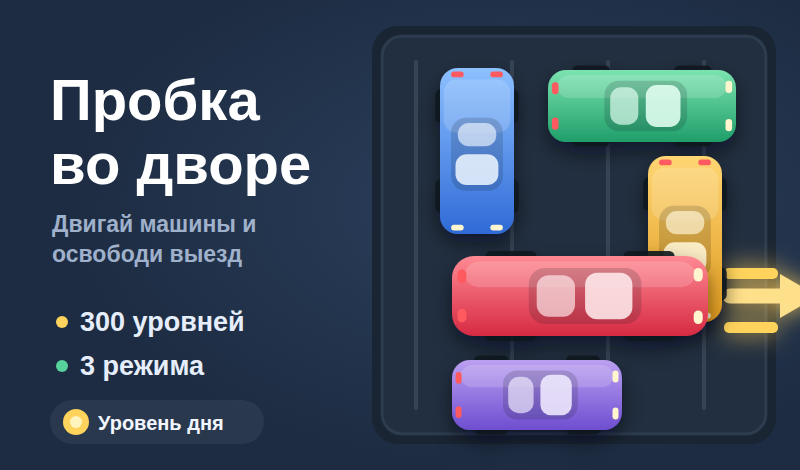
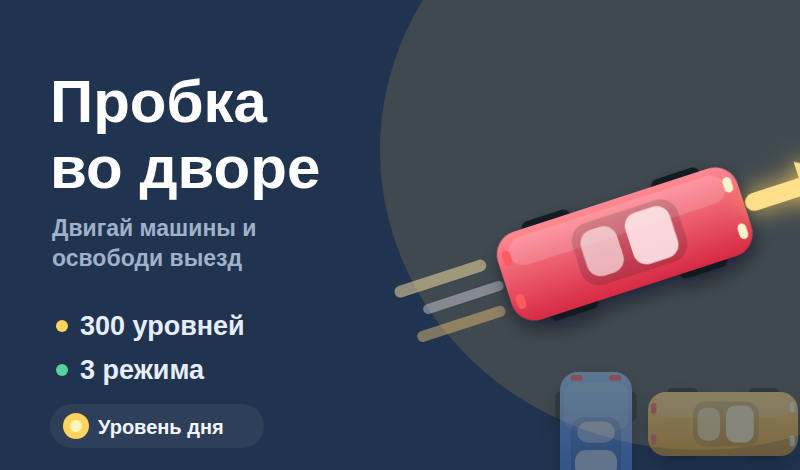
Новый концепт иконки и обложки с нуля: «Побег героя»
Полностью новая идея (не правка старого затора): одна крупная глянцевая
красная машина в динамике вырывается по диагонали к светящемуся золотому
выезду со скоростными штрихами; тусклые машины-блокеры по краям, тёплое
сияние и виньетка. Энергично, читаемо на малых размерах.
- icon-512.png — квадрат 512x512, без скруглений/прозрачности (8.3.3).
- cover-800x470.png — иллюстрация (заголовок + сцена побега), не скриншот (5.6).

diff --git a/releases/yandex-assets/cover-800x470.html b/releases/yandex-assets/cover-800x470.html
@@ -11,54 +11,47 @@
 <body>
     <svg width="800" height="470" viewBox="0 0 800 470" xmlns="http://www.w3.org/2000/svg">
       <defs>
-        <linearGradient id="coverBg" x1="0" y1="0" x2="800" y2="470">
-          <stop stop-color="#1d2c42"/>
-          <stop offset="0.55" stop-color="#0c1420"/>
+        <linearGradient id="coverBg2" x1="0" y1="0" x2="800" y2="470">
+          <stop stop-color="#21344f"/>
+          <stop offset="0.55" stop-color="#0e1828"/>
           <stop offset="1" stop-color="#070a10"/>
         </linearGradient>
-        <linearGradient id="title" x1="44" y1="60" x2="360" y2="180">
+        <linearGradient id="title" x1="44" y1="60" x2="360" y2="190">
           <stop stop-color="#ffffff"/>
           <stop offset="1" stop-color="#a9caff"/>
         </linearGradient>
-        <radialGradient id="yardGlow" cx="64%" cy="44%" r="56%">
-          <stop offset="0" stop-color="#5a7bb0" stop-opacity="0.24"/>
-          <stop offset="1" stop-color="#5a7bb0" stop-opacity="0"/>
-        </radialGradient>
         <linearGradient id="car-red" x1="0" y1="0" x2="0" y2="1"><stop stop-color="#ff8a93"/><stop offset="1" stop-color="#d62a43"/></linearGradient><linearGradient id="car-blue" x1="0" y1="0" x2="0" y2="1"><stop stop-color="#8cc0ff"/><stop offset="1" stop-color="#2f6ad6"/></linearGradient><linearGradient id="car-green" x1="0" y1="0" x2="0" y2="1"><stop stop-color="#7ce3b0"/><stop offset="1" stop-color="#1f9e6a"/></linearGradient><linearGradient id="car-gold" x1="0" y1="0" x2="0" y2="1"><stop stop-color="#ffd673"/><stop offset="1" stop-color="#df991e"/></linearGradient><linearGradient id="car-purple" x1="0" y1="0" x2="0" y2="1"><stop stop-color="#bba0f2"/><stop offset="1" stop-color="#6e4ed0"/></linearGradient><linearGradient id="car-teal" x1="0" y1="0" x2="0" y2="1"><stop stop-color="#74e2e8"/><stop offset="1" stop-color="#1f9aa6"/></linearGradient><filter id="carShadow" x="-50%" y="-50%" width="200%" height="200%"><feDropShadow dx="0" dy="9" stdDeviation="9" flood-color="#04060c" flood-opacity="0.5"/></filter><filter id="exitGlow" x="-120%" y="-120%" width="340%" height="340%"><feDropShadow dx="0" dy="0" stdDeviation="12" flood-color="#ffce5a" flood-opacity="0.9"/></filter>
       </defs>
-      <rect width="800" height="470" fill="url(#coverBg)"/>
-      <rect width="800" height="470" fill="url(#yardGlow)"/>
-      <!-- площадка двора: асфальт с разметкой парковочных мест -->
-      <g transform="translate(372 26)">
-        <rect x="0" y="0" width="404" height="418" rx="26" fill="#1a2533"/>
-        <rect x="10" y="10" width="384" height="398" rx="20" fill="#222f40"/>
-        <g stroke="#cfd9e8" stroke-width="4" opacity="0.12" stroke-linecap="round">
-          <path d="M44 36v346M140 36v346M236 36v346M332 36v346"/>
+      <rect width="800" height="470" fill="url(#coverBg2)"/>
+      <ellipse cx="700" cy="150" rx="320" ry="300" fill="#ffce5a" opacity="0.14"/>
+      <!-- тусклый затор -->
+      <g opacity="0.38">
+        <g filter="url(#carShadow)"><rect x="555.4" y="391.5" width="11.5" height="30" rx="5.2" fill="#10151d" opacity="0.9"/><rect x="555.4" y="472.5" width="11.5" height="30" rx="5.2" fill="#10151d" opacity="0.9"/><rect x="625.1" y="391.5" width="11.5" height="30" rx="5.2" fill="#10151d" opacity="0.9"/><rect x="625.1" y="472.5" width="11.5" height="30" rx="5.2" fill="#10151d" opacity="0.9"/><rect x="560" y="372" width="72" height="150" rx="18" fill="url(#car-blue)"/><rect x="563.6" y="382.5" width="64.8" height="48" rx="12.6" fill="#ffffff" opacity="0.16"/><rect x="570.8" y="417" width="50.4" height="66" rx="14.4" fill="#0b1016" opacity="0.16"/><rect x="575.1" y="450" width="41.8" height="27.7" rx="10.8" fill="#dfe9f6" opacity="0.88"/><rect x="577.3" y="421.6" width="37.4" height="21.1" rx="10.8" fill="#dfe9f6" opacity="0.68"/><rect x="570.8" y="513.6" width="12.2" height="5.3" rx="2.6" fill="#fff6cf"/><rect x="609" y="513.6" width="12.2" height="5.3" rx="2.6" fill="#fff6cf"/><rect x="570.8" y="375.1" width="12.2" height="5.3" rx="2.6" fill="#ff5a5f"/><rect x="609" y="375.1" width="12.2" height="5.3" rx="2.6" fill="#ff5a5f"/></g>
+        <g filter="url(#carShadow)"><rect x="667.5" y="387.9" width="30" height="10.2" rx="4.6" fill="#10151d" opacity="0.9"/><rect x="748.5" y="387.9" width="30" height="10.2" rx="4.6" fill="#10151d" opacity="0.9"/><rect x="667.5" y="449.9" width="30" height="10.2" rx="4.6" fill="#10151d" opacity="0.9"/><rect x="748.5" y="449.9" width="30" height="10.2" rx="4.6" fill="#10151d" opacity="0.9"/><rect x="648" y="392" width="150" height="64" rx="18" fill="url(#car-gold)"/><rect x="655.5" y="396.5" width="135" height="20.5" rx="12.6" fill="#ffffff" opacity="0.16"/><rect x="693" y="401.6" width="66" height="44.8" rx="12.8" fill="#0b1016" opacity="0.16"/><rect x="726" y="405.4" width="27.7" height="37.1" rx="9.6" fill="#fff1cf" opacity="0.88"/><rect x="697.6" y="407.4" width="22.4" height="33.3" rx="9.6" fill="#fff1cf" opacity="0.68"/><rect x="789.6" y="401.6" width="5.3" height="10.9" rx="2.6" fill="#fff6cf"/><rect x="789.6" y="435.5" width="5.3" height="10.9" rx="2.6" fill="#fff6cf"/><rect x="651.1" y="402.9" width="5.3" height="10.9" rx="2.6" fill="#ff5a5f"/><rect x="651.1" y="434.2" width="5.3" height="10.9" rx="2.6" fill="#ff5a5f"/></g>
+      </g>
+      <!-- герой вырывается к выезду -->
+      <g transform="rotate(-18 600 252)">
+        <g>
+          <rect x="392" y="222" width="96" height="12" rx="6" fill="#ffe7a6" opacity="0.5"/>
+          <rect x="414" y="248" width="84" height="10" rx="5" fill="#ffffff" opacity="0.36"/>
+          <rect x="400" y="272" width="92" height="11" rx="5" fill="#ffd27a" opacity="0.42"/>
         </g>
-        <rect x="10" y="10" width="384" height="398" rx="20" fill="none" stroke="#3c4d63" stroke-width="3" opacity="0.5"/>
+        <g filter="url(#carShadow)"><rect x="532.8" y="200.1" width="50.4" height="14.7" rx="6.6" fill="#10151d" opacity="0.9"/><rect x="668.8" y="200.1" width="50.4" height="14.7" rx="6.6" fill="#10151d" opacity="0.9"/><rect x="532.8" y="289.2" width="50.4" height="14.7" rx="6.6" fill="#10151d" opacity="0.9"/><rect x="668.8" y="289.2" width="50.4" height="14.7" rx="6.6" fill="#10151d" opacity="0.9"/><rect x="500" y="206" width="252" height="92" rx="24" fill="url(#car-red)"/><rect x="512.6" y="212.4" width="226.8" height="29.4" rx="16.8" fill="#ffffff" opacity="0.16"/><rect x="575.6" y="219.8" width="110.9" height="64.4" rx="18.4" fill="#0b1016" opacity="0.16"/><rect x="631" y="225.3" width="46.6" height="53.4" rx="13.8" fill="#ffe9ec" opacity="0.88"/><rect x="583.4" y="228.1" width="37.7" height="47.8" rx="13.8" fill="#ffe9ec" opacity="0.68"/><rect x="737.9" y="219.8" width="8.8" height="15.6" rx="4.4" fill="#fff6cf"/><rect x="737.9" y="268.6" width="8.8" height="15.6" rx="4.4" fill="#fff6cf"/><rect x="505.3" y="221.6" width="8.8" height="15.6" rx="4.4" fill="#ff5a5f"/><rect x="505.3" y="266.7" width="8.8" height="15.6" rx="4.4" fill="#ff5a5f"/></g>
+        <g filter="url(#exitGlow)">
+          <path d="M762 252h54" stroke="#ffe08a" stroke-width="18" stroke-linecap="round"/>
+          <path d="M812 226l44 26-44 26z" fill="#ffe08a"/>
+        </g>
       </g>
-      <!-- золотые ворота выезда справа, на линии красной машины -->
-      <g filter="url(#exitGlow)">
-        <rect x="724" y="268" width="54" height="11" rx="5" fill="#ffd35c"/>
-        <rect x="724" y="322" width="54" height="11" rx="5" fill="#ffd35c"/>
-        <path d="M730 296h54" stroke="#ffe08a" stroke-width="15" stroke-linecap="round"/>
-        <path d="M780 274l38 22-38 22z" fill="#ffe08a"/>
-      </g>
-      <g filter="url(#carShadow)"><rect x="435.3" y="89.6" width="11.8" height="33.2" rx="5.3" fill="#10151d" opacity="0.9"/><rect x="435.3" y="179.2" width="11.8" height="33.2" rx="5.3" fill="#10151d" opacity="0.9"/><rect x="506.9" y="89.6" width="11.8" height="33.2" rx="5.3" fill="#10151d" opacity="0.9"/><rect x="506.9" y="179.2" width="11.8" height="33.2" rx="5.3" fill="#10151d" opacity="0.9"/><rect x="440" y="68" width="74" height="166" rx="18" fill="url(#car-blue)"/><rect x="443.7" y="79.6" width="66.6" height="53.1" rx="12.6" fill="#ffffff" opacity="0.16"/><rect x="451.1" y="117.8" width="51.8" height="73" rx="14.8" fill="#0b1016" opacity="0.16"/><rect x="455.5" y="154.3" width="42.9" height="30.7" rx="11.1" fill="#e9f2ff" opacity="0.88"/><rect x="457.8" y="122.9" width="38.5" height="23.4" rx="11.1" fill="#e9f2ff" opacity="0.68"/><rect x="451.1" y="224.7" width="12.6" height="5.8" rx="2.9" fill="#fff6cf"/><rect x="490.3" y="224.7" width="12.6" height="5.8" rx="2.9" fill="#fff6cf"/><rect x="451.1" y="71.5" width="12.6" height="5.8" rx="2.9" fill="#ff5a5f"/><rect x="490.3" y="71.5" width="12.6" height="5.8" rx="2.9" fill="#ff5a5f"/></g>
-      <g filter="url(#carShadow)"><rect x="572.4" y="65.4" width="37.6" height="11.5" rx="5.2" fill="#10151d" opacity="0.9"/><rect x="674" y="65.4" width="37.6" height="11.5" rx="5.2" fill="#10151d" opacity="0.9"/><rect x="572.4" y="135.1" width="37.6" height="11.5" rx="5.2" fill="#10151d" opacity="0.9"/><rect x="674" y="135.1" width="37.6" height="11.5" rx="5.2" fill="#10151d" opacity="0.9"/><rect x="548" y="70" width="188" height="72" rx="18" fill="url(#car-green)"/><rect x="557.4" y="75" width="169.2" height="23" rx="12.6" fill="#ffffff" opacity="0.16"/><rect x="604.4" y="80.8" width="82.7" height="50.4" rx="14.4" fill="#0b1016" opacity="0.16"/><rect x="645.8" y="85.1" width="34.7" height="41.8" rx="10.8" fill="#e2fff2" opacity="0.88"/><rect x="610.2" y="87.3" width="28.1" height="37.4" rx="10.8" fill="#e2fff2" opacity="0.68"/><rect x="725.5" y="80.8" width="6.6" height="12.2" rx="3.3" fill="#fff6cf"/><rect x="725.5" y="119" width="6.6" height="12.2" rx="3.3" fill="#fff6cf"/><rect x="551.9" y="82.2" width="6.6" height="12.2" rx="3.3" fill="#ff5a5f"/><rect x="551.9" y="117.5" width="6.6" height="12.2" rx="3.3" fill="#ff5a5f"/></g>
-      <g filter="url(#carShadow)"><rect x="643.3" y="177.6" width="11.8" height="33.2" rx="5.3" fill="#10151d" opacity="0.9"/><rect x="643.3" y="267.2" width="11.8" height="33.2" rx="5.3" fill="#10151d" opacity="0.9"/><rect x="714.9" y="177.6" width="11.8" height="33.2" rx="5.3" fill="#10151d" opacity="0.9"/><rect x="714.9" y="267.2" width="11.8" height="33.2" rx="5.3" fill="#10151d" opacity="0.9"/><rect x="648" y="156" width="74" height="166" rx="18" fill="url(#car-gold)"/><rect x="651.7" y="167.6" width="66.6" height="53.1" rx="12.6" fill="#ffffff" opacity="0.16"/><rect x="659.1" y="205.8" width="51.8" height="73" rx="14.8" fill="#0b1016" opacity="0.16"/><rect x="663.5" y="242.3" width="42.9" height="30.7" rx="11.1" fill="#fff6d6" opacity="0.88"/><rect x="665.8" y="210.9" width="38.5" height="23.4" rx="11.1" fill="#fff6d6" opacity="0.68"/><rect x="659.1" y="312.7" width="12.6" height="5.8" rx="2.9" fill="#fff6cf"/><rect x="698.3" y="312.7" width="12.6" height="5.8" rx="2.9" fill="#fff6cf"/><rect x="659.1" y="159.5" width="12.6" height="5.8" rx="2.9" fill="#ff5a5f"/><rect x="698.3" y="159.5" width="12.6" height="5.8" rx="2.9" fill="#ff5a5f"/></g>
-      <g filter="url(#carShadow)"><rect x="485.3" y="250.9" width="51.2" height="12.8" rx="5.8" fill="#10151d" opacity="0.9"/><rect x="623.5" y="250.9" width="51.2" height="12.8" rx="5.8" fill="#10151d" opacity="0.9"/><rect x="485.3" y="328.3" width="51.2" height="12.8" rx="5.8" fill="#10151d" opacity="0.9"/><rect x="623.5" y="328.3" width="51.2" height="12.8" rx="5.8" fill="#10151d" opacity="0.9"/><rect x="452" y="256" width="256" height="80" rx="22" fill="url(#car-red)"/><rect x="464.8" y="261.6" width="230.4" height="25.6" rx="15.4" fill="#ffffff" opacity="0.16"/><rect x="528.8" y="268" width="112.6" height="56" rx="16" fill="#0b1016" opacity="0.16"/><rect x="585.1" y="272.8" width="47.3" height="46.4" rx="12" fill="#ffe9ec" opacity="0.88"/><rect x="536.7" y="275.2" width="38.3" height="41.6" rx="12" fill="#ffe9ec" opacity="0.68"/><rect x="693.7" y="268" width="9" height="13.6" rx="4.5" fill="#fff6cf"/><rect x="693.7" y="310.4" width="9" height="13.6" rx="4.5" fill="#fff6cf"/><rect x="457.4" y="269.6" width="9" height="13.6" rx="4.5" fill="#ff5a5f"/><rect x="457.4" y="308.8" width="9" height="13.6" rx="4.5" fill="#ff5a5f"/></g>
-      <g filter="url(#carShadow)"><rect x="474.1" y="355.5" width="34" height="11.2" rx="5" fill="#10151d" opacity="0.9"/><rect x="565.9" y="355.5" width="34" height="11.2" rx="5" fill="#10151d" opacity="0.9"/><rect x="474.1" y="423.3" width="34" height="11.2" rx="5" fill="#10151d" opacity="0.9"/><rect x="565.9" y="423.3" width="34" height="11.2" rx="5" fill="#10151d" opacity="0.9"/><rect x="452" y="360" width="170" height="70" rx="18" fill="url(#car-purple)"/><rect x="460.5" y="364.9" width="153" height="22.4" rx="12.6" fill="#ffffff" opacity="0.16"/><rect x="503" y="370.5" width="74.8" height="49" rx="14" fill="#0b1016" opacity="0.16"/><rect x="540.4" y="374.7" width="31.4" height="40.6" rx="10.5" fill="#f0eaff" opacity="0.88"/><rect x="508.2" y="376.8" width="25.4" height="36.4" rx="10.5" fill="#f0eaff" opacity="0.68"/><rect x="612.5" y="370.5" width="6" height="11.9" rx="3" fill="#fff6cf"/><rect x="612.5" y="407.6" width="6" height="11.9" rx="3" fill="#fff6cf"/><rect x="455.6" y="371.9" width="6" height="11.9" rx="3" fill="#ff5a5f"/><rect x="455.6" y="406.2" width="6" height="11.9" rx="3" fill="#ff5a5f"/></g>
       <!-- текстовый блок слева -->
-      <text x="50" y="120" font-family="Arial, sans-serif" font-size="58" font-weight="900" fill="url(#title)">Пробка</text>
-      <text x="50" y="184" font-family="Arial, sans-serif" font-size="58" font-weight="900" fill="url(#title)">во дворе</text>
-      <text x="52" y="232" font-family="Arial, sans-serif" font-size="23" font-weight="700" fill="#9fb1cb">Двигай машины и</text>
-      <text x="52" y="262" font-family="Arial, sans-serif" font-size="23" font-weight="700" fill="#9fb1cb">освободи выезд</text>
+      <text x="50" y="122" font-family="Arial, sans-serif" font-size="60" font-weight="900" fill="url(#title)">Пробка</text>
+      <text x="50" y="188" font-family="Arial, sans-serif" font-size="60" font-weight="900" fill="url(#title)">во дворе</text>
+      <text x="52" y="236" font-family="Arial, sans-serif" font-size="23" font-weight="700" fill="#9fb1cb">Двигай машины и</text>
+      <text x="52" y="266" font-family="Arial, sans-serif" font-size="23" font-weight="700" fill="#9fb1cb">освободи выезд</text>
       <g font-family="Arial, sans-serif" font-weight="900" fill="#e6eefb">
-        <circle cx="62" cy="322" r="6" fill="#ffd35c"/><text x="80" y="331" font-size="27">300 уровней</text>
-        <circle cx="62" cy="366" r="6" fill="#56d29c"/><text x="80" y="375" font-size="27">3 режима</text>
+        <circle cx="62" cy="326" r="6" fill="#ffd35c"/><text x="80" y="335" font-size="27">300 уровней</text>
+        <circle cx="62" cy="370" r="6" fill="#56d29c"/><text x="80" y="379" font-size="27">3 режима</text>
       </g>
-      <g transform="translate(50 400)">
+      <g transform="translate(50 404)">
         <rect x="0" y="0" width="214" height="44" rx="22" fill="#ffffff" opacity="0.06"/>
         <circle cx="26" cy="22" r="13" fill="#ffd35c"/><circle cx="26" cy="22" r="6" fill="#fff4be"/>
         <text x="48" y="30" font-family="Arial, sans-serif" font-size="20" font-weight="800" fill="#f2f6ff">Уровень дня</text>

diff --git a/releases/yandex-assets/icon-512.html b/releases/yandex-assets/icon-512.html
@@ -12,38 +12,42 @@
     <svg width="512" height="512" viewBox="0 0 512 512" xmlns="http://www.w3.org/2000/svg">
       <defs>
         <linearGradient id="bg" x1="0" y1="0" x2="512" y2="512">
-          <stop stop-color="#22344f"/>
-          <stop offset="0.5" stop-color="#101a28"/>
-          <stop offset="1" stop-color="#070a0e"/>
+          <stop stop-color="#243a59"/>
+          <stop offset="0.55" stop-color="#111d2e"/>
+          <stop offset="1" stop-color="#070a10"/>
         </linearGradient>
-        <radialGradient id="vign" cx="48%" cy="40%" r="74%">
-          <stop offset="0.5" stop-color="#000000" stop-opacity="0"/>
-          <stop offset="1" stop-color="#000000" stop-opacity="0.52"/>
+        <radialGradient id="vign" cx="50%" cy="46%" r="74%">
+          <stop offset="0.52" stop-color="#000000" stop-opacity="0"/>
+          <stop offset="1" stop-color="#000000" stop-opacity="0.5"/>
         </radialGradient>
         <linearGradient id="car-red" x1="0" y1="0" x2="0" y2="1"><stop stop-color="#ff8a93"/><stop offset="1" stop-color="#d62a43"/></linearGradient><linearGradient id="car-blue" x1="0" y1="0" x2="0" y2="1"><stop stop-color="#8cc0ff"/><stop offset="1" stop-color="#2f6ad6"/></linearGradient><linearGradient id="car-green" x1="0" y1="0" x2="0" y2="1"><stop stop-color="#7ce3b0"/><stop offset="1" stop-color="#1f9e6a"/></linearGradient><linearGradient id="car-gold" x1="0" y1="0" x2="0" y2="1"><stop stop-color="#ffd673"/><stop offset="1" stop-color="#df991e"/></linearGradient><linearGradient id="car-purple" x1="0" y1="0" x2="0" y2="1"><stop stop-color="#bba0f2"/><stop offset="1" stop-color="#6e4ed0"/></linearGradient><linearGradient id="car-teal" x1="0" y1="0" x2="0" y2="1"><stop stop-color="#74e2e8"/><stop offset="1" stop-color="#1f9aa6"/></linearGradient><filter id="carShadow" x="-50%" y="-50%" width="200%" height="200%"><feDropShadow dx="0" dy="9" stdDeviation="9" flood-color="#04060c" flood-opacity="0.5"/></filter><filter id="exitGlow" x="-120%" y="-120%" width="340%" height="340%"><feDropShadow dx="0" dy="0" stdDeviation="12" flood-color="#ffce5a" flood-opacity="0.9"/></filter>
       </defs>
       <rect width="512" height="512" fill="url(#bg)"/>
-      <!-- тёплое сияние от выезда справа -->
-      <ellipse cx="470" cy="332" rx="190" ry="190" fill="#ffce5a" opacity="0.12"/>
-      <!-- лёгкая разметка парковочных рядов -->
-      <g stroke="#cdd8e8" stroke-width="5" opacity="0.08" stroke-linecap="round">
-        <path d="M64 150h384M64 256h384M64 362h384"/>
+      <ellipse cx="432" cy="150" rx="250" ry="250" fill="#ffce5a" opacity="0.16"/>
+      <!-- тусклые машины затора, из которого вырвался герой -->
+      <g opacity="0.4">
+        <g filter="url(#carShadow)"><rect x="13.5" y="411.5" width="11.2" height="30" rx="5" fill="#10151d" opacity="0.9"/><rect x="13.5" y="492.5" width="11.2" height="30" rx="5" fill="#10151d" opacity="0.9"/><rect x="81.3" y="411.5" width="11.2" height="30" rx="5" fill="#10151d" opacity="0.9"/><rect x="81.3" y="492.5" width="11.2" height="30" rx="5" fill="#10151d" opacity="0.9"/><rect x="18" y="392" width="70" height="150" rx="18" fill="url(#car-blue)"/><rect x="21.5" y="402.5" width="63" height="48" rx="12.6" fill="#ffffff" opacity="0.16"/><rect x="28.5" y="437" width="49" height="66" rx="14" fill="#0b1016" opacity="0.16"/><rect x="32.7" y="470" width="40.6" height="27.7" rx="10.5" fill="#dfe9f6" opacity="0.88"/><rect x="34.8" y="441.6" width="36.4" height="21.1" rx="10.5" fill="#dfe9f6" opacity="0.68"/><rect x="28.5" y="533.6" width="11.9" height="5.3" rx="2.6" fill="#fff6cf"/><rect x="65.6" y="533.6" width="11.9" height="5.3" rx="2.6" fill="#fff6cf"/><rect x="28.5" y="395.1" width="11.9" height="5.3" rx="2.6" fill="#ff5a5f"/><rect x="65.6" y="395.1" width="11.9" height="5.3" rx="2.6" fill="#ff5a5f"/></g>
+        <g filter="url(#carShadow)"><rect x="322.4" y="427.8" width="34.4" height="10.6" rx="4.8" fill="#10151d" opacity="0.9"/><rect x="415.2" y="427.8" width="34.4" height="10.6" rx="4.8" fill="#10151d" opacity="0.9"/><rect x="322.4" y="491.7" width="34.4" height="10.6" rx="4.8" fill="#10151d" opacity="0.9"/><rect x="415.2" y="491.7" width="34.4" height="10.6" rx="4.8" fill="#10151d" opacity="0.9"/><rect x="300" y="432" width="172" height="66" rx="18" fill="url(#car-gold)"/><rect x="308.6" y="436.6" width="154.8" height="21.1" rx="12.6" fill="#ffffff" opacity="0.16"/><rect x="351.6" y="441.9" width="75.7" height="46.2" rx="13.2" fill="#0b1016" opacity="0.16"/><rect x="389.4" y="445.9" width="31.8" height="38.3" rx="9.9" fill="#fff1cf" opacity="0.88"/><rect x="356.9" y="447.8" width="25.7" height="34.3" rx="9.9" fill="#fff1cf" opacity="0.68"/><rect x="462.4" y="441.9" width="6" height="11.2" rx="3" fill="#fff6cf"/><rect x="462.4" y="476.9" width="6" height="11.2" rx="3" fill="#fff6cf"/><rect x="303.6" y="443.2" width="6" height="11.2" rx="3" fill="#ff5a5f"/><rect x="303.6" y="475.6" width="6" height="11.2" rx="3" fill="#ff5a5f"/></g>
       </g>
-      <!-- золотые ворота выезда справа, на линии красной машины -->
-      <g filter="url(#exitGlow)">
-        <rect x="392" y="296" width="58" height="12" rx="6" fill="#ffd35c"/>
-        <rect x="392" y="358" width="58" height="12" rx="6" fill="#ffd35c"/>
-        <path d="M398 333h60" stroke="#ffe08a" stroke-width="16" stroke-linecap="round"/>
-        <path d="M452 309l40 24-40 24z" fill="#ffe08a"/>
+      <!-- штрихи скорости + герой + стрелка выезда, повёрнуты по ходу -->
+      <g transform="rotate(-24 246 282)">
+        <g>
+          <rect x="-18" y="250" width="92" height="12" rx="6" fill="#ffe7a6" opacity="0.5"/>
+          <rect x="4" y="276" width="80" height="10" rx="5" fill="#ffffff" opacity="0.38"/>
+          <rect x="-6" y="300" width="88" height="11" rx="5" fill="#ffd27a" opacity="0.42"/>
+        </g>
+        <g filter="url(#carShadow)"><rect x="135" y="225.6" width="60" height="16" rx="7.2" fill="#10151d" opacity="0.9"/><rect x="297" y="225.6" width="60" height="16" rx="7.2" fill="#10151d" opacity="0.9"/><rect x="135" y="322.4" width="60" height="16" rx="7.2" fill="#10151d" opacity="0.9"/><rect x="297" y="322.4" width="60" height="16" rx="7.2" fill="#10151d" opacity="0.9"/><rect x="96" y="232" width="300" height="100" rx="28" fill="url(#car-red)"/><rect x="111" y="239" width="270" height="32" rx="19.6" fill="#ffffff" opacity="0.16"/><rect x="186" y="247" width="132" height="70" rx="20" fill="#0b1016" opacity="0.16"/><rect x="252" y="253" width="55.4" height="58" rx="15" fill="#ffe9ec" opacity="0.88"/><rect x="195.2" y="256" width="44.9" height="52" rx="15" fill="#ffe9ec" opacity="0.68"/><rect x="379.2" y="247" width="10.5" height="17" rx="5.3" fill="#fff6cf"/><rect x="379.2" y="300" width="10.5" height="17" rx="5.3" fill="#fff6cf"/><rect x="102.3" y="249" width="10.5" height="17" rx="5.3" fill="#ff5a5f"/><rect x="102.3" y="298" width="10.5" height="17" rx="5.3" fill="#ff5a5f"/></g>
+        <g filter="url(#exitGlow)">
+          <path d="M404 282h72" stroke="#ffe08a" stroke-width="20" stroke-linecap="round"/>
+          <path d="M462 250l56 32-56 32z" fill="#ffe08a"/>
+        </g>
       </g>
-      <!-- затор: блокирующие машины + красный герой, выезжающий вправо -->
-      <g filter="url(#carShadow)"><rect x="85.1" y="106.4" width="12.2" height="34.4" rx="5.5" fill="#10151d" opacity="0.9"/><rect x="85.1" y="199.2" width="12.2" height="34.4" rx="5.5" fill="#10151d" opacity="0.9"/><rect x="158.7" y="106.4" width="12.2" height="34.4" rx="5.5" fill="#10151d" opacity="0.9"/><rect x="158.7" y="199.2" width="12.2" height="34.4" rx="5.5" fill="#10151d" opacity="0.9"/><rect x="90" y="84" width="76" height="172" rx="22" fill="url(#car-blue)"/><rect x="93.8" y="96" width="68.4" height="55" rx="15.4" fill="#ffffff" opacity="0.16"/><rect x="101.4" y="135.6" width="53.2" height="75.7" rx="15.2" fill="#0b1016" opacity="0.16"/><rect x="106" y="173.4" width="44.1" height="31.8" rx="11.4" fill="#e9f2ff" opacity="0.88"/><rect x="108.2" y="140.9" width="39.5" height="24.2" rx="11.4" fill="#e9f2ff" opacity="0.68"/><rect x="101.4" y="246.4" width="12.9" height="6" rx="3" fill="#fff6cf"/><rect x="141.7" y="246.4" width="12.9" height="6" rx="3" fill="#fff6cf"/><rect x="101.4" y="87.6" width="12.9" height="6" rx="3" fill="#ff5a5f"/><rect x="141.7" y="87.6" width="12.9" height="6" rx="3" fill="#ff5a5f"/></g>
-      <g filter="url(#carShadow)"><rect x="217.9" y="79.3" width="36.8" height="11.8" rx="5.3" fill="#10151d" opacity="0.9"/><rect x="317.3" y="79.3" width="36.8" height="11.8" rx="5.3" fill="#10151d" opacity="0.9"/><rect x="217.9" y="150.9" width="36.8" height="11.8" rx="5.3" fill="#10151d" opacity="0.9"/><rect x="317.3" y="150.9" width="36.8" height="11.8" rx="5.3" fill="#10151d" opacity="0.9"/><rect x="194" y="84" width="184" height="74" rx="22" fill="url(#car-green)"/><rect x="203.2" y="89.2" width="165.6" height="23.7" rx="15.4" fill="#ffffff" opacity="0.16"/><rect x="249.2" y="95.1" width="81" height="51.8" rx="14.8" fill="#0b1016" opacity="0.16"/><rect x="289.7" y="99.5" width="34" height="42.9" rx="11.1" fill="#e2fff2" opacity="0.88"/><rect x="254.9" y="101.8" width="27.5" height="38.5" rx="11.1" fill="#e2fff2" opacity="0.68"/><rect x="367.7" y="95.1" width="6.4" height="12.6" rx="3.2" fill="#fff6cf"/><rect x="367.7" y="134.3" width="6.4" height="12.6" rx="3.2" fill="#fff6cf"/><rect x="197.9" y="96.6" width="6.4" height="12.6" rx="3.2" fill="#ff5a5f"/><rect x="197.9" y="132.8" width="6.4" height="12.6" rx="3.2" fill="#ff5a5f"/></g>
-      <g filter="url(#carShadow)"><rect x="247.1" y="217.8" width="12.2" height="33.6" rx="5.5" fill="#10151d" opacity="0.9"/><rect x="247.1" y="308.6" width="12.2" height="33.6" rx="5.5" fill="#10151d" opacity="0.9"/><rect x="320.7" y="217.8" width="12.2" height="33.6" rx="5.5" fill="#10151d" opacity="0.9"/><rect x="320.7" y="308.6" width="12.2" height="33.6" rx="5.5" fill="#10151d" opacity="0.9"/><rect x="252" y="196" width="76" height="168" rx="22" fill="url(#car-gold)"/><rect x="255.8" y="207.8" width="68.4" height="53.8" rx="15.4" fill="#ffffff" opacity="0.16"/><rect x="263.4" y="246.4" width="53.2" height="73.9" rx="15.2" fill="#0b1016" opacity="0.16"/><rect x="268" y="283.4" width="44.1" height="31" rx="11.4" fill="#fff6d6" opacity="0.88"/><rect x="270.2" y="251.6" width="39.5" height="23.7" rx="11.4" fill="#fff6d6" opacity="0.68"/><rect x="263.4" y="354.6" width="12.9" height="5.9" rx="2.9" fill="#fff6cf"/><rect x="303.7" y="354.6" width="12.9" height="5.9" rx="2.9" fill="#fff6cf"/><rect x="263.4" y="199.5" width="12.9" height="5.9" rx="2.9" fill="#ff5a5f"/><rect x="303.7" y="199.5" width="12.9" height="5.9" rx="2.9" fill="#ff5a5f"/></g>
-      <g filter="url(#carShadow)"><rect x="127.1" y="284.5" width="54" height="13.8" rx="6.2" fill="#10151d" opacity="0.9"/><rect x="272.9" y="284.5" width="54" height="13.8" rx="6.2" fill="#10151d" opacity="0.9"/><rect x="127.1" y="367.7" width="54" height="13.8" rx="6.2" fill="#10151d" opacity="0.9"/><rect x="272.9" y="367.7" width="54" height="13.8" rx="6.2" fill="#10151d" opacity="0.9"/><rect x="92" y="290" width="270" height="86" rx="26" fill="url(#car-red)"/><rect x="105.5" y="296" width="243" height="27.5" rx="18.2" fill="#ffffff" opacity="0.16"/><rect x="173" y="302.9" width="118.8" height="60.2" rx="17.2" fill="#0b1016" opacity="0.16"/><rect x="232.4" y="308.1" width="49.9" height="49.9" rx="12.9" fill="#ffe9ec" opacity="0.88"/><rect x="181.3" y="310.6" width="40.4" height="44.7" rx="12.9" fill="#ffe9ec" opacity="0.68"/><rect x="346.9" y="302.9" width="9.5" height="14.6" rx="4.7" fill="#fff6cf"/><rect x="346.9" y="348.5" width="9.5" height="14.6" rx="4.7" fill="#fff6cf"/><rect x="97.7" y="304.6" width="9.5" height="14.6" rx="4.7" fill="#ff5a5f"/><rect x="97.7" y="346.8" width="9.5" height="14.6" rx="4.7" fill="#ff5a5f"/></g>
       <rect width="512" height="512" fill="url(#vign)"/>
-      <circle cx="436" cy="92" r="22" fill="#ffd35c"/>
-      <circle cx="436" cy="92" r="10" fill="#fff4be"/>
+      <g fill="#ffe9b0">
+        <circle cx="486" cy="150" r="6"/>
+        <circle cx="452" cy="98" r="4"/>
+        <circle cx="500" cy="206" r="4"/>
+      </g>
     </svg>
   </body>
 </html>

diff --git a/probka-game/tools/generate-yandex-assets.js b/probka-game/tools/generate-yandex-assets.js
@@ -95,43 +95,49 @@ function capture(url, outputPath, width, height, virtualTime = 600, scale = 1) {
   if (result.status !== 0) throw new Error(`Chrome screenshot failed for ${url}`);
 }
 
+// Новый концепт «Побег героя»: одна крупная красная машина в динамике
+// вырывается к светящемуся выезду со скоростными штрихами.
 function makeIconHtml() {
   return htmlShell(512, 512, `
     <svg width="512" height="512" viewBox="0 0 512 512" xmlns="http://www.w3.org/2000/svg">
       <defs>
         <linearGradient id="bg" x1="0" y1="0" x2="512" y2="512">
-          <stop stop-color="#22344f"/>
-          <stop offset="0.5" stop-color="#101a28"/>
-          <stop offset="1" stop-color="#070a0e"/>
+          <stop stop-color="#243a59"/>
+          <stop offset="0.55" stop-color="#111d2e"/>
+          <stop offset="1" stop-color="#070a10"/>
         </linearGradient>
-        <radialGradient id="vign" cx="48%" cy="40%" r="74%">
-          <stop offset="0.5" stop-color="#000000" stop-opacity="0"/>
-          <stop offset="1" stop-color="#000000" stop-opacity="0.52"/>
+        <radialGradient id="vign" cx="50%" cy="46%" r="74%">
+          <stop offset="0.52" stop-color="#000000" stop-opacity="0"/>
+          <stop offset="1" stop-color="#000000" stop-opacity="0.5"/>
         </radialGradient>
         ${carArtDefs()}
       </defs>
       <rect width="512" height="512" fill="url(#bg)"/>
-      <!-- тёплое сияние от выезда справа -->
-      <ellipse cx="470" cy="332" rx="190" ry="190" fill="#ffce5a" opacity="0.12"/>
-      <!-- лёгкая разметка парковочных рядов -->
-      <g stroke="#cdd8e8" stroke-width="5" opacity="0.08" stroke-linecap="round">
-        <path d="M64 150h384M64 256h384M64 362h384"/>
+      <ellipse cx="432" cy="150" rx="250" ry="250" fill="#ffce5a" opacity="0.16"/>
+      <!-- тусклые машины затора, из которого вырвался герой -->
+      <g opacity="0.4">
+        ${car(18, 392, 70, 150, "url(#car-blue)", "#dfe9f6", 18)}
+        ${car(300, 432, 172, 66, "url(#car-gold)", "#fff1cf", 18)}
       </g>
-      <!-- золотые ворота выезда справа, на линии красной машины -->
-      <g filter="url(#exitGlow)">
-        <rect x="392" y="296" width="58" height="12" rx="6" fill="#ffd35c"/>
-        <rect x="392" y="358" width="58" height="12" rx="6" fill="#ffd35c"/>
-        <path d="M398 333h60" stroke="#ffe08a" stroke-width="16" stroke-linecap="round"/>
-        <path d="M452 309l40 24-40 24z" fill="#ffe08a"/>
+      <!-- штрихи скорости + герой + стрелка выезда, повёрнуты по ходу -->
+      <g transform="rotate(-24 246 282)">
+        <g>
+          <rect x="-18" y="250" width="92" height="12" rx="6" fill="#ffe7a6" opacity="0.5"/>
+          <rect x="4" y="276" width="80" height="10" rx="5" fill="#ffffff" opacity="0.38"/>
+          <rect x="-6" y="300" width="88" height="11" rx="5" fill="#ffd27a" opacity="0.42"/>
+        </g>
+        ${car(96, 232, 300, 100, "url(#car-red)", "#ffe9ec", 28, true)}
+        <g filter="url(#exitGlow)">
+          <path d="M404 282h72" stroke="#ffe08a" stroke-width="20" stroke-linecap="round"/>
+          <path d="M462 250l56 32-56 32z" fill="#ffe08a"/>
+        </g>
       </g>
-      <!-- затор: блокирующие машины + красный герой, выезжающий вправо -->
-      ${car(90, 84, 76, 172, "url(#car-blue)", "#e9f2ff", 22)}
-      ${car(194, 84, 184, 74, "url(#car-green)", "#e2fff2", 22)}
-      ${car(252, 196, 76, 168, "url(#car-gold)", "#fff6d6", 22)}
-      ${car(92, 290, 270, 86, "url(#car-red)", "#ffe9ec", 26, true)}
       <rect width="512" height="512" fill="url(#vign)"/>
-      <circle cx="436" cy="92" r="22" fill="#ffd35c"/>
-      <circle cx="436" cy="92" r="10" fill="#fff4be"/>
+      <g fill="#ffe9b0">
+        <circle cx="486" cy="150" r="6"/>
+        <circle cx="452" cy="98" r="4"/>
+        <circle cx="500" cy="206" r="4"/>
+      </g>
     </svg>
   `);
 }
@@ -140,54 +146,47 @@ function makeCoverHtml() {
   return htmlShell(800, 470, `
     <svg width="800" height="470" viewBox="0 0 800 470" xmlns="http://www.w3.org/2000/svg">
       <defs>
-        <linearGradient id="coverBg" x1="0" y1="0" x2="800" y2="470">
-          <stop stop-color="#1d2c42"/>
-          <stop offset="0.55" stop-color="#0c1420"/>
+        <linearGradient id="coverBg2" x1="0" y1="0" x2="800" y2="470">
+          <stop stop-color="#21344f"/>
+          <stop offset="0.55" stop-color="#0e1828"/>
           <stop offset="1" stop-color="#070a10"/>
         </linearGradient>
-        <linearGradient id="title" x1="44" y1="60" x2="360" y2="180">
+        <linearGradient id="title" x1="44" y1="60" x2="360" y2="190">
           <stop stop-color="#ffffff"/>
           <stop offset="1" stop-color="#a9caff"/>
         </linearGradient>
-        <radialGradient id="yardGlow" cx="64%" cy="44%" r="56%">
-          <stop offset="0" stop-color="#5a7bb0" stop-opacity="0.24"/>
-          <stop offset="1" stop-color="#5a7bb0" stop-opacity="0"/>
-        </radialGradient>
         ${carArtDefs()}
       </defs>
-      <rect width="800" height="470" fill="url(#coverBg)"/>
-      <rect width="800" height="470" fill="url(#yardGlow)"/>
-      <!-- площадка двора: асфальт с разметкой парковочных мест -->
-      <g transform="translate(372 26)">
-        <rect x="0" y="0" width="404" height="418" rx="26" fill="#1a2533"/>
-        <rect x="10" y="10" width="384" height="398" rx="20" fill="#222f40"/>
-        <g stroke="#cfd9e8" stroke-width="4" opacity="0.12" stroke-linecap="round">
-          <path d="M44 36v346M140 36v346M236 36v346M332 36v346"/>
+      <rect width="800" height="470" fill="url(#coverBg2)"/>
+      <ellipse cx="700" cy="150" rx="320" ry="300" fill="#ffce5a" opacity="0.14"/>
+      <!-- тусклый затор -->
+      <g opacity="0.38">
+        ${car(560, 372, 72, 150, "url(#car-blue)", "#dfe9f6", 18)}
+        ${car(648, 392, 150, 64, "url(#car-gold)", "#fff1cf", 18)}
+      </g>
+      <!-- герой вырывается к выезду -->
+      <g transform="rotate(-18 600 252)">
+        <g>
+          <rect x="392" y="222" width="96" height="12" rx="6" fill="#ffe7a6" opacity="0.5"/>
+          <rect x="414" y="248" width="84" height="10" rx="5" fill="#ffffff" opacity="0.36"/>
+          <rect x="400" y="272" width="92" height="11" rx="5" fill="#ffd27a" opacity="0.42"/>
         </g>
-        <rect x="10" y="10" width="384" height="398" rx="20" fill="none" stroke="#3c4d63" stroke-width="3" opacity="0.5"/>
+        ${car(500, 206, 252, 92, "url(#car-red)", "#ffe9ec", 24, true)}
+        <g filter="url(#exitGlow)">
+          <path d="M762 252h54" stroke="#ffe08a" stroke-width="18" stroke-linecap="round"/>
+          <path d="M812 226l44 26-44 26z" fill="#ffe08a"/>
+        </g>
       </g>
-      <!-- золотые ворота выезда справа, на линии красной машины -->
-      <g filter="url(#exitGlow)">
-        <rect x="724" y="268" width="54" height="11" rx="5" fill="#ffd35c"/>
-        <rect x="724" y="322" width="54" height="11" rx="5" fill="#ffd35c"/>
-        <path d="M730 296h54" stroke="#ffe08a" stroke-width="15" stroke-linecap="round"/>
-        <path d="M780 274l38 22-38 22z" fill="#ffe08a"/>
-      </g>
-      ${car(440, 68, 74, 166, "url(#car-blue)", "#e9f2ff", 18)}
-      ${car(548, 70, 188, 72, "url(#car-green)", "#e2fff2", 18)}
-      ${car(648, 156, 74, 166, "url(#car-gold)", "#fff6d6", 18)}
-      ${car(452, 256, 256, 80, "url(#car-red)", "#ffe9ec", 22, true)}
-      ${car(452, 360, 170, 70, "url(#car-purple)", "#f0eaff", 18)}
       <!-- текстовый блок слева -->
-      <text x="50" y="120" font-family="Arial, sans-serif" font-size="58" font-weight="900" fill="url(#title)">Пробка</text>
-      <text x="50" y="184" font-family="Arial, sans-serif" font-size="58" font-weight="900" fill="url(#title)">во дворе</text>
-      <text x="52" y="232" font-family="Arial, sans-serif" font-size="23" font-weight="700" fill="#9fb1cb">Двигай машины и</text>
-      <text x="52" y="262" font-family="Arial, sans-serif" font-size="23" font-weight="700" fill="#9fb1cb">освободи выезд</text>
+      <text x="50" y="122" font-family="Arial, sans-serif" font-size="60" font-weight="900" fill="url(#title)">Пробка</text>
+      <text x="50" y="188" font-family="Arial, sans-serif" font-size="60" font-weight="900" fill="url(#title)">во дворе</text>
+      <text x="52" y="236" font-family="Arial, sans-serif" font-size="23" font-weight="700" fill="#9fb1cb">Двигай машины и</text>
+      <text x="52" y="266" font-family="Arial, sans-serif" font-size="23" font-weight="700" fill="#9fb1cb">освободи выезд</text>
       <g font-family="Arial, sans-serif" font-weight="900" fill="#e6eefb">
-        <circle cx="62" cy="322" r="6" fill="#ffd35c"/><text x="80" y="331" font-size="27">300 уровней</text>
-        <circle cx="62" cy="366" r="6" fill="#56d29c"/><text x="80" y="375" font-size="27">3 режима</text>
+        <circle cx="62" cy="326" r="6" fill="#ffd35c"/><text x="80" y="335" font-size="27">300 уровней</text>
+        <circle cx="62" cy="370" r="6" fill="#56d29c"/><text x="80" y="379" font-size="27">3 режима</text>
       </g>
-      <g transform="translate(50 400)">
+      <g transform="translate(50 404)">
         <rect x="0" y="0" width="214" height="44" rx="22" fill="#ffffff" opacity="0.06"/>
         <circle cx="26" cy="22" r="13" fill="#ffd35c"/><circle cx="26" cy="22" r="6" fill="#fff4be"/>
         <text x="48" y="30" font-family="Arial, sans-serif" font-size="20" font-weight="800" fill="#f2f6ff">Уровень дня</text>
